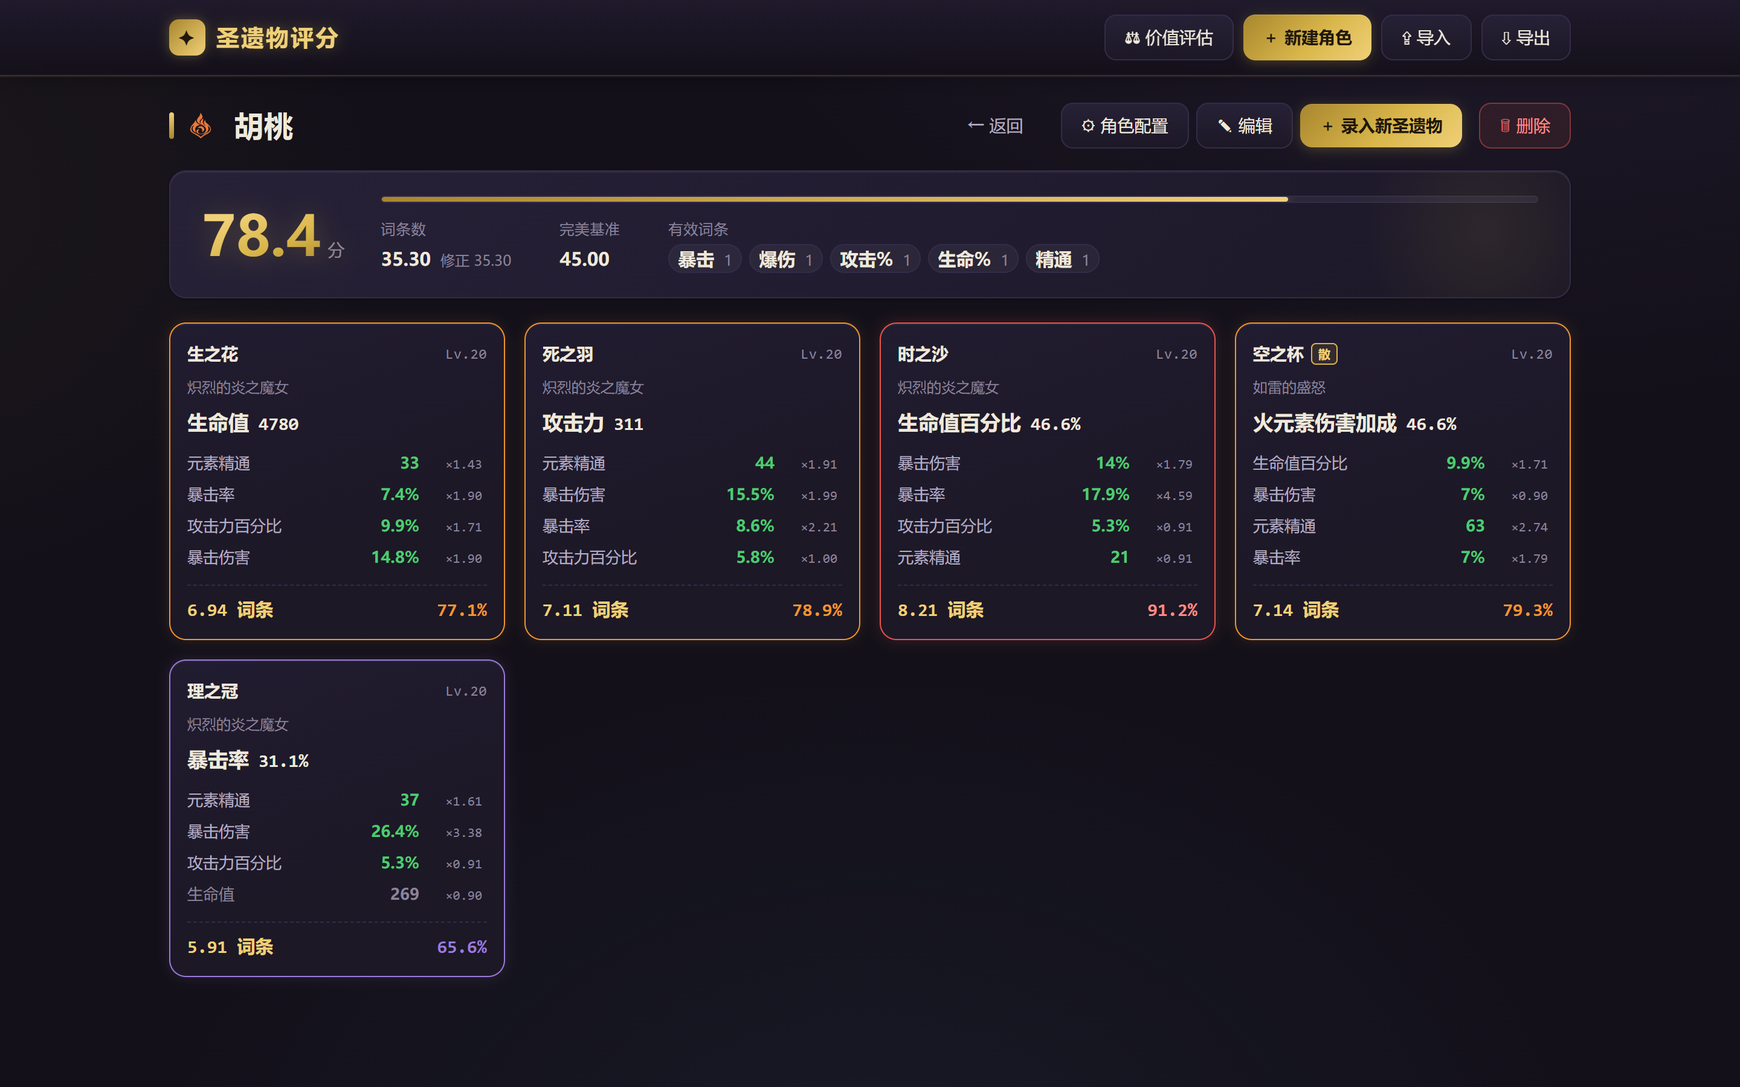
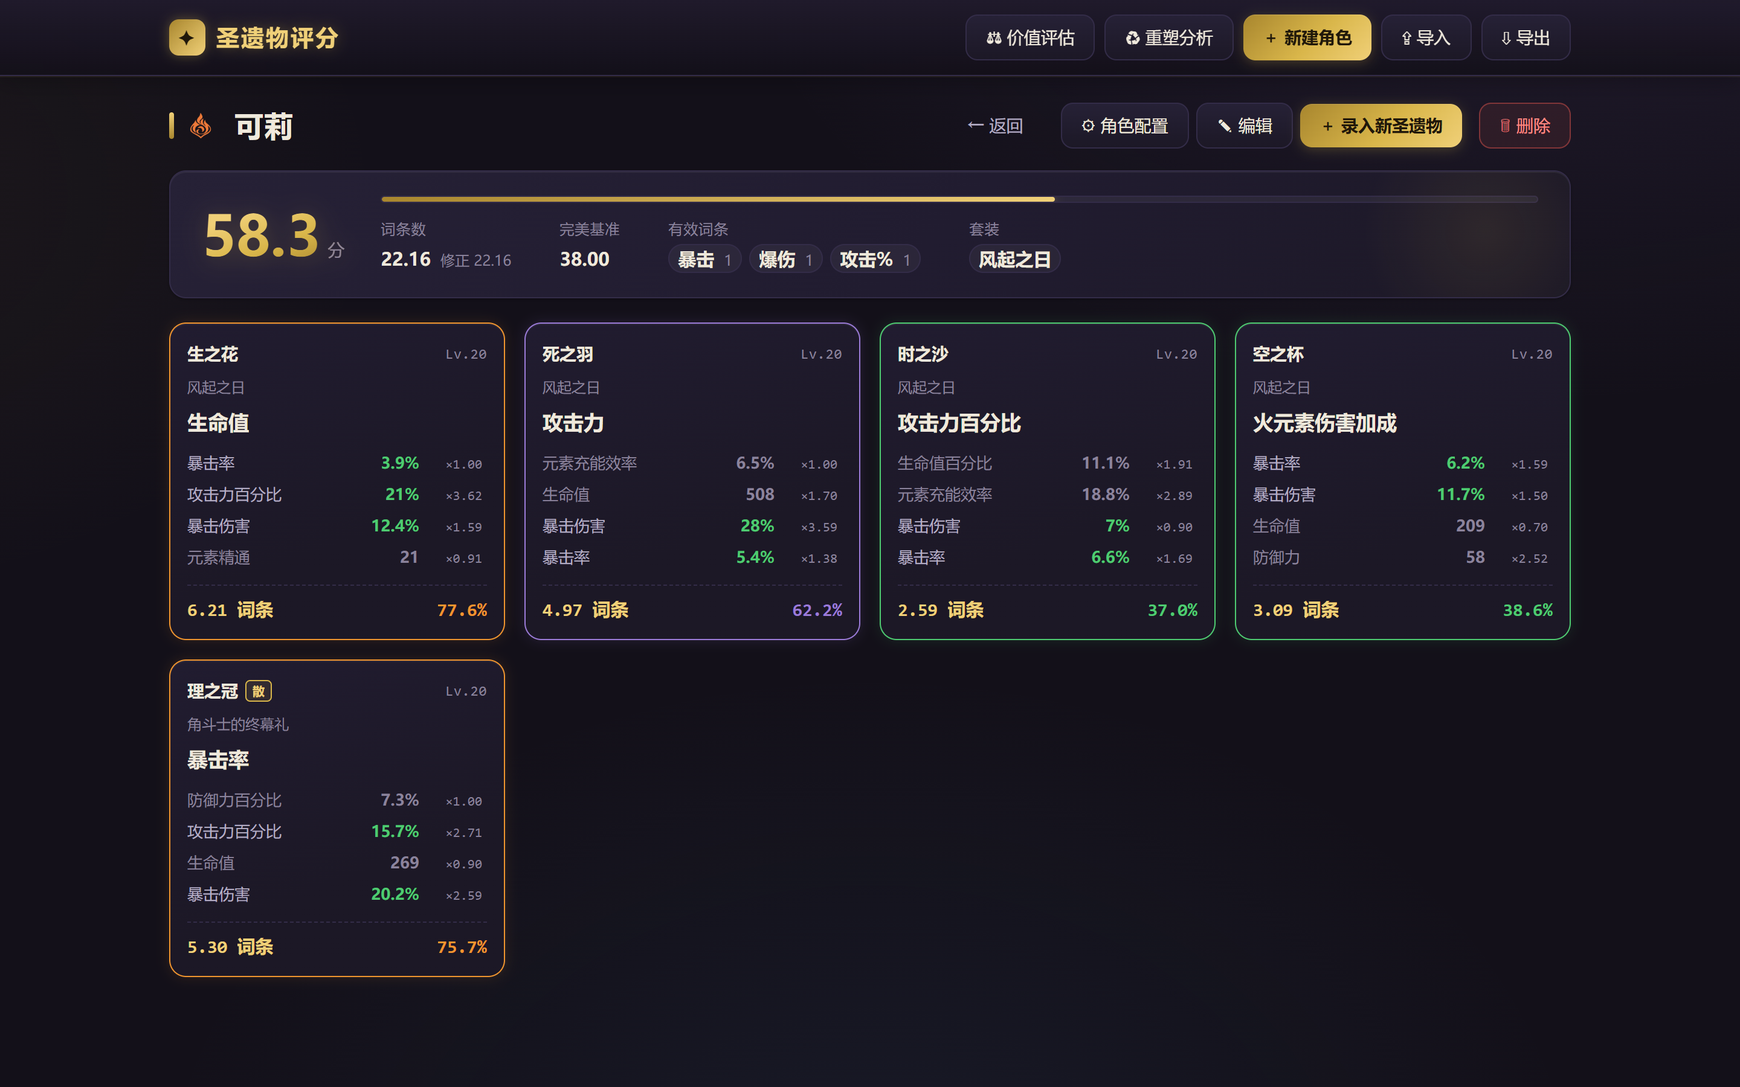
feat(ui): 按角色筛选支持「套装字段为空」；同步定稿算法文档 / README / 截图
- ui: 新增哨兵项「其他 / 不判套装」（SET_FILTER_EMPTY="__no_set__"），固定在滚动 .set-list 之外；
  命中 roleSets 为空的两类（留空「其他」/ 5 部位未录全），与套装项并集；按钮文案单独显示「其他」
- css: .set-sep / .set-item-none
- test-dom: 新增 6 项断言（面板含该项 / 固定在滚动区外 / 单独命中 / 并集命中 / __no_set__ 落盘恢复 / 清除恢复）
- docs(算法设计·定稿，用户授权)：记录 sets 为套装类判定唯一来源；新增「口径变更记录（2026-10-09）」；
  isSetPiece / wearsSet / 重塑宿主条件改读 roleSets
- docs(实现方案)：§3.2 路径①补「其他 / 不判套装」与提示文案；功能对照表 #7 同步
- README：「66 位预配置角色」更正为「角色配置」真实机制（经查仓库无内置角色数据，角色来自导入 backups/）；
  data.js 说明改为「数据校验」；新增 filter.png 预览
- docs/screenshots：用最新备份重拍 home/detail 并新增 filter（脚本 .workbuddy/screenshot.js）

验证：node test.js 315 通过 / 0 失败；node test-dom.js exit=0 全绿

diff --git a/js/ui.js b/js/ui.js
@@ -17,6 +17,11 @@
   let listFilter = (typeof global.App.storage.loadFilter === "function" && global.App.storage.loadFilter())
     || { mode: "role", slot: "", mainStat: "", sets: [] };
   const persistFilter = () => { try { global.App.storage.saveFilter(listFilter); } catch (e) { /* 静默 */ } };
+  // 套装筛选的**特殊项** sentinel：代表「套装字段为空」——即 core.roleSets(role) 为 [] 的角色，
+  // 含两类：① 字段留空（＝「其他」）② 5 部位未录全（当这个角色不存在）。两者在详情页都显示为「其他 / 不判套装」。
+  // 用一个内部 token 而非空串，避免与真实套装名/空值混淆；loadFilter 只校验「是字符串」，故可随筛选一起持久化。
+  const SET_FILTER_EMPTY = "__no_set__";
+  const setLabel = s => s === SET_FILTER_EMPTY ? "其他 / 不判套装" : s;
   let setPanelOutsideHandler = null;      // 套装下拉「点击面板外关闭」的全局监听（复用同一 handler，避免重复渲染累积）
   let pendingArtifact = null;             // 新圣遗物临时对象（评估用）
   let evalHidden = new Set();             // 评估会话内被手动移除的有提升角色 id（重新录入/放弃时清空）
@@ -192,8 +197,11 @@
         if (f.mode === "role") {
           if (!f.sets.length) return true;                      // 未选套装 → 不筛
           // 套装判定（2026-10-09）：读角色套装字段 —— 命中 ⟺ roleSets(role) 与所选集合有交集。
-          // 不再按「已录入件中该套装 ≥ 2 件」计数；未录全（当这个角色不存在）与留空（「其他」）的角色不命中。
-          return core.roleSets(role).some(s => f.sets.includes(s));
+          // 不再按「已录入件中该套装 ≥ 2 件」计数。
+          // 特殊项 SET_FILTER_EMPTY = 「套装字段为空」（roleSets 为 []，含留空与未录全）→ 单独命中。
+          const rs = core.roleSets(role);
+          const wantEmpty = f.sets.includes(SET_FILTER_EMPTY);
+          return (wantEmpty && rs.length === 0) || rs.some(s => f.sets.includes(s));
         }
         // 按散件：散件部位 + 主词条（AND 叠加；两者均可单独使用）
         if (f.slot && role.looseSlot !== f.slot) return false;
@@ -213,7 +221,7 @@
     // —— 筛选栏：路径标签页（按角色 / 按散件）+ 当前路条件 + 清除 ——
     const fBar = el("div", "filter-bar");
     const tabs = el("div", "filter-tabs");
-    [{ key: "role", label: "按角色", tip: "按套装筛选角色：角色所穿套装（角色配置中的套装构成）包含所选套装" },
+    [{ key: "role", label: "按角色", tip: "按套装筛选角色：角色所穿套装（角色配置中的套装字段）包含所选套装；也可单独勾选「其他 / 不判套装」筛出未声明套装的角色" },
      { key: "loose", label: "按散件", tip: "按散件筛选角色：散件部位 + 该部位的主词条" }].forEach(p => {
       const tab = el("button", "ftab" + (f.mode === p.key ? " active" : ""), p.label);
       tab.type = "button";
@@ -235,23 +243,42 @@
     if (f.mode === "role") {
       // —— ① 按角色：套装多选（下拉 checkbox 面板；判定读角色套装字段 role.sets，不数件数）——
       const setBox = el("div", "set-filter");
-      const setBtnText = () => f.sets.length ? `套装 ${f.sets.length}套 ▾` : "套装 ▾";
+      // 按钮文案：真实套装数 + 特殊项「其他」（分列，避免把「其他」算成一套）
+      const setBtnText = () => {
+        if (!f.sets.length) return "套装 ▾";
+        const n = f.sets.filter(s => s !== SET_FILTER_EMPTY).length;
+        const parts = [];
+        if (n) parts.push(`${n}套`);
+        if (f.sets.includes(SET_FILTER_EMPTY)) parts.push("其他");
+        return `套装 ${parts.join("+")} ▾`;
+      };
       const setBtn = el("button", "btn btn-sm set-btn", setBtnText());
       const panel = el("div", "set-dropdown hidden");
       const list = el("div", "set-list");
-      allSets.forEach(name => {
-        const lab = el("label", "set-item");
-        lab.innerHTML = `<input type="checkbox" ${f.sets.includes(name) ? "checked" : ""}><span>${esc(name)}</span>`;
+      // 勾选/取消的公共处理（真实套装项与「其他」特殊项共用）
+      const bindSetItem = (lab, value) => {
         lab.querySelector("input").addEventListener("change", e => {
-          if (e.target.checked) { if (!f.sets.includes(name)) f.sets.push(name); }
-          else f.sets = f.sets.filter(s => s !== name);
+          if (e.target.checked) { if (!f.sets.includes(value)) f.sets.push(value); }
+          else f.sets = f.sets.filter(s => s !== value);
           setBtn.textContent = setBtnText();
           persistFilter();   // 持久化筛选（刷新/重开恢复）
           updateResults();   // 局部刷新，面板保持打开可连续勾选
         });
+      };
+      allSets.forEach(name => {
+        const lab = el("label", "set-item");
+        lab.innerHTML = `<input type="checkbox" ${f.sets.includes(name) ? "checked" : ""}><span>${esc(name)}</span>`;
+        bindSetItem(lab, name);
         list.appendChild(lab);
       });
       panel.appendChild(list);
+      // 特殊项固定放在滚动区**之外**（套装列表很长，避免被滚走）：套装字段为空（其他 / 不判套装）
+      panel.appendChild(el("div", "set-sep"));
+      const labNone = el("label", "set-item set-item-none");
+      labNone.innerHTML = `<input type="checkbox" ${f.sets.includes(SET_FILTER_EMPTY) ? "checked" : ""}>` +
+        `<span title="套装字段为空：含「留空（其他）」与「5 部位未录全（当这个角色不存在）」两类">其他 / 不判套装</span>`;
+      bindSetItem(labNone, SET_FILTER_EMPTY);
+      panel.appendChild(labNone);
       setBox.append(setBtn, panel);
       setBtn.addEventListener("click", e => {
         e.stopPropagation();
@@ -312,7 +339,7 @@
       if (isActive()) {
         infoEl.textContent = `筛选 ${filtered.length}/${roles.length} 个角色` +
           (f.mode === "role"
-            ? ` · 套装 ${f.sets.join("、")}`
+            ? ` · 套装 ${f.sets.map(setLabel).join("、")}`
             : (f.slot ? ` · 散件·${C.SLOTS[f.slot].name}` : "") + (f.mainStat ? ` · ${f.mainStat}` : "")) +
           `，按分数降序`;
         infoEl.style.display = "";

diff --git a/test-dom.js b/test-dom.js
@@ -610,6 +610,58 @@ const path = require("path");
     }
   }
 
+  // —— 套装筛选特殊项「其他 / 不判套装」（套装字段为空：留空 + 未录全）——
+  {
+    const rn = App.store.newRole("测试-其他");     // newRole → sets = [] 且 5 部位未录全 ⇒ roleSets = []
+    App.store.updateRole(rn);
+    window.document.getElementById("logoBtn").click();
+    await new Promise(r => setTimeout(r, 40));
+    const tabRole = app.querySelector('.filter-tabs .ftab[data-m="role"]');
+    if (tabRole && !tabRole.classList.contains("active")) { tabRole.click(); await new Promise(r => setTimeout(r, 40)); }
+    app.querySelector(".set-filter .set-btn").click();
+    await new Promise(r => setTimeout(r, 40));
+    const labNone = Array.from(app.querySelectorAll(".set-item")).find(l => /其他 \/ 不判套装/.test(l.textContent));
+    console.log("套装面板含「其他 / 不判套装」项:", labNone ? "✓" : "✗");
+    if (!labNone) process.exitCode = 1;
+    else {
+      // 特殊项应位于滚动列表之外（始终可见）
+      const inScroll = !!app.querySelector(".set-list .set-item-none");
+      console.log("「其他」项固定在滚动区外:", !inScroll ? "✓" : "✗");
+      if (inScroll) process.exitCode = 1;
+      labNone.querySelector("input").click();
+      await new Promise(r => setTimeout(r, 60));
+      let nn = listNames();
+      const okNone = nn.length === 1 && nn[0] === "测试-其他";
+      console.log("路径①[其他]:", nn.join(", "), okNone ? "✓" : "✗", "（应仅 测试-其他）");
+      if (!okNone) process.exitCode = 1;
+      const btnTxt = app.querySelector(".set-filter .set-btn").textContent;
+      console.log("按钮文案（其他不计入「N套」）:", btnTxt.trim(), /其他/.test(btnTxt) && !/1套/.test(btnTxt) ? "✓" : "✗");
+      if (!/其他/.test(btnTxt) || /1套/.test(btnTxt)) process.exitCode = 1;
+      // 叠加真实套装「绝缘之旗印」→ 并集（测试-其他 + 测试-导入式 + 测试-套装，后者经「按实况更新」后含绝缘）
+      const labIns = Array.from(app.querySelectorAll(".set-item")).find(l => l.textContent.trim() === "绝缘之旗印");
+      labIns.querySelector("input").click();
+      await new Promise(r => setTimeout(r, 60));
+      nn = listNames();
+      const okUnion = nn.length === 3
+        && ["测试-其他", "测试-导入式", "测试-套装"].every(n => nn.includes(n));
+      console.log("路径①[其他+绝缘]:", nn.join(", "), okUnion ? "✓" : "✗");
+      if (!okUnion) process.exitCode = 1;
+      // 落盘应保留 sentinel，loadFilter 能原样恢复
+      const savedRaw = window.localStorage.getItem(window.App.storage.FILTER_KEY);
+      const saved = savedRaw ? JSON.parse(savedRaw) : null;
+      const restored = window.App.storage.loadFilter();
+      const okPersist = !!saved && saved.sets.length === 2 && saved.sets.includes("__no_set__")
+        && !!restored && restored.sets.includes("__no_set__");
+      console.log("「其他」筛选落盘/恢复:", okPersist ? "✓" : "✗", savedRaw || "（无）");
+      if (!okPersist) process.exitCode = 1;
+      clearBtn().click();   // 清理
+      await new Promise(r => setTimeout(r, 50));
+      nn = listNames();
+      console.log("清除后恢复全部:", nn.length, nn.length === 6 ? "✓" : "✗", `(${nn.join(", ")})`);
+      if (nn.length !== 6) process.exitCode = 1;
+    }
+  }
+
   // —— 角色配置弹窗「取消」不得污染内存对象（2026-10-09 修：弹窗入口深拷贝 role）——
   {
     window.document.getElementById("logoBtn").click();

diff --git a/css/style.css b/css/style.css
@@ -296,6 +296,10 @@ body {
 }
 .set-item:hover { background: rgba(255, 255, 255, 0.05); }
 .set-item input { accent-color: var(--brand); cursor: pointer; }
+/* 「其他 / 不判套装」特殊项：固定在滚动区外，用分隔线隔开并以次级色区分（非真实套装名） */
+.set-sep { height: 1px; margin: 8px 6px; background: var(--line-1); }
+.set-item-none { color: var(--text-2); }
+.set-item-none:hover { background: rgba(255, 255, 255, 0.05); }
 
 .filter-info {
   font-size: var(--fs-sm); color: var(--text-3); margin-bottom: 10px;

diff --git a/docs/圣遗物网页实现方案.md b/docs/圣遗物网页实现方案.md
@@ -526,12 +526,12 @@ App.core = {
 - **排序**：按角色评分百分制**降序**排列（高分在前）
 - **双路径筛选栏**（列表顶部；**两条路径互斥、切换即清空另一路**，2026-09-28 重构）：
   - **路径标签页**：「按角色」/「按散件」两个胶囊标签（`.filter-tabs .ftab[data-m="role|loose"]`，选中态品牌色描边 + 淡金底，高 30px 与下拉对齐）；点击切换路径 → **立即清空另一路条件**并落盘（两条路径不同时生效）
-  - **① 按角色（mode="role"）· 只筛套装**：套装多选下拉（点击展开面板：**自定义套装置顶** + 内置套装 checkbox 列表，**无件数选择器、无清空按钮**；勾选后局部刷新结果区、面板保持打开，点击面板外关闭——全局监听复用同一 handler，避免重复渲染累积）；判定（**2026-10-09 改**）= `core.roleSets(role).some(s => 所选集合.includes(s))`，**直接读角色套装字段，不再数已录入件数**（旧口径「该角色已录入件中 `set ∈ 所选集合` 的件数 ≥ 2」已废弃：件数会随录入进度变化，且无法表达 2+2+1；未录全/留空角色一律不命中）
+  - **① 按角色（mode="role"）· 只筛套装**：套装多选下拉（点击展开面板：**自定义套装置顶** + 内置套装 checkbox 列表，**无件数选择器、无清空按钮**；勾选后局部刷新结果区、面板保持打开，点击面板外关闭——全局监听复用同一 handler，避免重复渲染累积）；面板底部另经分隔线固定一项 **「其他 / 不判套装」**（哨兵值 `__no_set__`，**位于滚动 `.set-list` 之外、不随套装列表滚动**，命中 `core.roleSets(role)` 为空者——含「留空（其他）」与「5 部位未录全（当这个角色不存在）」两类）；判定（**2026-10-09 改**）= 选中集合为空 → 不筛；否则「勾了「其他」且 `roleSets` 为空」**并集**「`roleSets` 命中所选套装」即命中；按钮文案把「其他」单独显示（如「套装 其他 ▾」/「套装 2 套 ▾」）。（旧口径「该角色已录入件中 `set ∈ 所选集合` 的件数 ≥ 2」已废弃：件数会随录入进度变化，且无法表达 2+2+1；未录全/留空角色仅在勾选「其他」时命中）
   - **② 按散件（mode="loose"）· 只筛部位与主词条**：两个下拉——**散件部位**（全部/生之花/死之羽/时之沙/空之杯/理之冠）+ **主词条**（选部位后联动为该部位候选，**未选部位时列出全部主属性合并**，即「仅主词条」用法）；两条件 **AND 叠加且均可单独使用**；判定 = `looseSlot === 所选部位`（无散件角色不命中），若同时选了主词条则要求该部位已录入件 `mainStat` 一致（未选部位时为任意已录入部位主词条匹配）
   - **「✕ 清除」**：清空**当前路径**的条件（保留所在路径），清除同样落盘
   - **状态记忆**：存于模块级 `listFilter`（独立于 `view`，进详情/评估页返回后不丢失），并持久化到 localStorage（结构 `{mode, slot, mainStat, sets}`，**落盘只含当前路条件**），**刷新/重新打开页面自动恢复上次筛选与所在路径**
 - **主属性候选表**（constants.MAIN_STATS_BY_SLOT，与游戏实际一致）：花=生命值；羽=攻击力；沙=攻击力百分比/防御力百分比/生命值百分比/元素精通/元素充能效率；杯=攻击力百分比/防御力百分比/生命值百分比/元素精通/物理伤害加成/7 种元素伤害加成（**无充能/治疗**）；头=攻击力百分比/防御力百分比/生命值百分比/元素精通/暴击率/暴击伤害/治疗加成
-- 筛选时显示结果提示（**按当前路径生成**）：「筛选 N/M 个角色 · 套装 A、B，按分数降序」（按角色，2026-10-09 起去掉「≥2件」字样）/「筛选 N/M 个角色 · 散件·空之杯 · 火元素伤害加成，按分数降序」（按散件，未选的条件自动省略）；当前路无条件时整条隐藏；无匹配显示空态（含「✕ 清除筛选」按钮作为出口）
+- 筛选时显示结果提示（**按当前路径生成**）：「筛选 N/M 个角色 · 套装 A、B，按分数降序」（按角色，2026-10-09 起去掉「≥2件」字样，「其他 / 不判套装」在提示中显示为「其他」）/「筛选 N/M 个角色 · 散件·空之杯 · 火元素伤害加成，按分数降序」（按散件，未选的条件自动省略）；当前路无条件时整条隐藏；无匹配显示空态（含「✕ 清除筛选」按钮作为出口）
 - 每角色**一行**一张横卡（role-list 纵向堆叠），行内用**垂直细分隔线**分三段（视觉引导）：
   1. `角色名（元素图标）+ 总分（金色）`（元素图标位于角色名左侧，`role.element` 或按角色名映射 `constants.CHARACTER_ELEMENT_HINTS` 兜底；未配置则不显示）
   2. 有效词条简称+权值（`暴击1 爆伤1 攻击%0.8`，权值金色；**无「有效」标签**；未配置灰字"未配置"）
@@ -709,7 +709,7 @@ App.core = {
 | 4. 价值评估 | core.evaluateArtifact | 价值评估视图（录入新圣遗物触发） |
 | 5. 数据与结果展示 | ui.js 全部视图 | 列表/详情/评估，实时刷新 |
 | 6. 重塑分析 | core.expectedHits / calcRemodel / remodelSignature / inferInitialCount / collectRemodelCandidates / remodelTargets / analyzeRemodel | 重塑分析视图（顶栏入口；满级件扫描 + 新录入件，三情况归属 + RV 降序 + 初始推断二态） |
-| 7. 首页筛选（双路径） | ui.js（listFilter + loadFilter/saveFilter） | 首页筛选栏（①按角色=套装（读 `role.sets`）②按散件=部位+主词条；路径互斥、状态持久化） |
+| 7. 首页筛选（双路径） | ui.js（listFilter + loadFilter/saveFilter） | 首页筛选栏（①按角色=套装字段多选，含「其他 / 不判套装」〔`__no_set__`，套装字段为空〕②按散件=部位+主词条；路径互斥、状态持久化） |
 | 8. 角色套装字段 | core.roleSets / hasSetInfo / checkSetConsistency + storage.prefillRoleSets | 角色配置弹窗（两个套装下拉）+ 角色详情（不一致警示条 + 「按实况更新」） |
 | 附：文本识别录入 | parser.js | 圣遗物录入弹窗（默认模式） |
 

diff --git a/README.md b/README.md
@@ -25,7 +25,7 @@
 **其他能力**
 
 - **重塑分析视图**：逐件给出「建议指定词条 → 现状 → 期望」对比与每尘收益；3/4 初始由副词条档位分解自动推断（发数守恒：4 初始 = 9 发 / 3 初始 = 8 发）——推断确定时静态展示，档位两可时提供手动切换
-- **66 位预配置角色**：内置角色定位相关的有效词条、建议权值与充能达标值（数据随游戏 5.x 版本整理）
+- **角色配置**：为每个角色设定有效词条与权值（决定评分基准）、散件位与充能需求；新建角色时按元素映射表（77 位）自动带出元素。仓库 `backups/` 内附现成角色数据备份（76 位），用「导入」即可直接使用
 - **文本快速录入**：粘贴游戏内圣遗物文本自动解析主词条 / 副词条，支持自定义套装名识别（自定义套装置顶显示并参与筛选）
 - **潜力评估**：`potential = 当前评分 + 待激活贡献 + 剩余可强化空间 × 最大词条权值`——未满级判强化价值、满级判替换价值
 - **3/4 词条初始圣遗物**：通过「待激活」状态支持未激活词条的录入
@@ -37,8 +37,13 @@
 
 <p align="center">
   <img src="docs/screenshots/home.png" alt="首页角色列表：按评分排序，展示有效词条、各部位评分与充能状态" width="49%">
-  <img src="docs/screenshots/detail.png" alt="角色详情：总分达成度与五件圣遗物逐件词条当量" width="49%"><br>
-  <sub>左：首页角色列表（评分排序 / 有效词条 / 充能达标状态）　　右：角色详情（总分达成度 / 逐件圣遗物滚数当量与达成百分比）</sub>
+  <img src="docs/screenshots/detail.png" alt="角色详情：套装字段、总分达成度与五件圣遗物逐件词条当量" width="49%"><br>
+  <sub>左：首页角色列表（评分排序 / 有效词条 / 充能达标状态）　　右：角色详情（套装字段 / 总分达成度 / 逐件圣遗物滚数当量与达成百分比）</sub>
+</p>
+
+<p align="center">
+  <img src="docs/screenshots/filter.png" alt="首页「按角色」套装筛选：角色套装字段多选面板，含「其他 / 不判套装」项" width="86%"><br>
+  <sub>首页「按角色」套装筛选：按角色套装字段多选 +「其他 / 不判套装」（套装字段为空：留空「其他」或 5 部位未录全），与「按散件」路径互斥</sub>
 </p>
 
 ## 快速开始
@@ -62,7 +67,7 @@ index.html                 入口页面
 css/style.css              全部样式（设计 token 集中在文件顶部 :root）
 js/
   constants.js             常量（词条上限、套装列表与别名、元素表等）
-  data.js                  66 位角色预配置数据（有效词条 / 权值 / 充能）
+  data.js                  数据校验（圣遗物 / 角色字段规则与警示，对应实现方案 §2.8）
   parser.js                圣遗物文本解析（含自定义套装识别）
   core.js                  四大核心算法实现（词条计算 / 角色评分 / 价值评估 / 重塑评估）
   adapters.js              数据适配层
